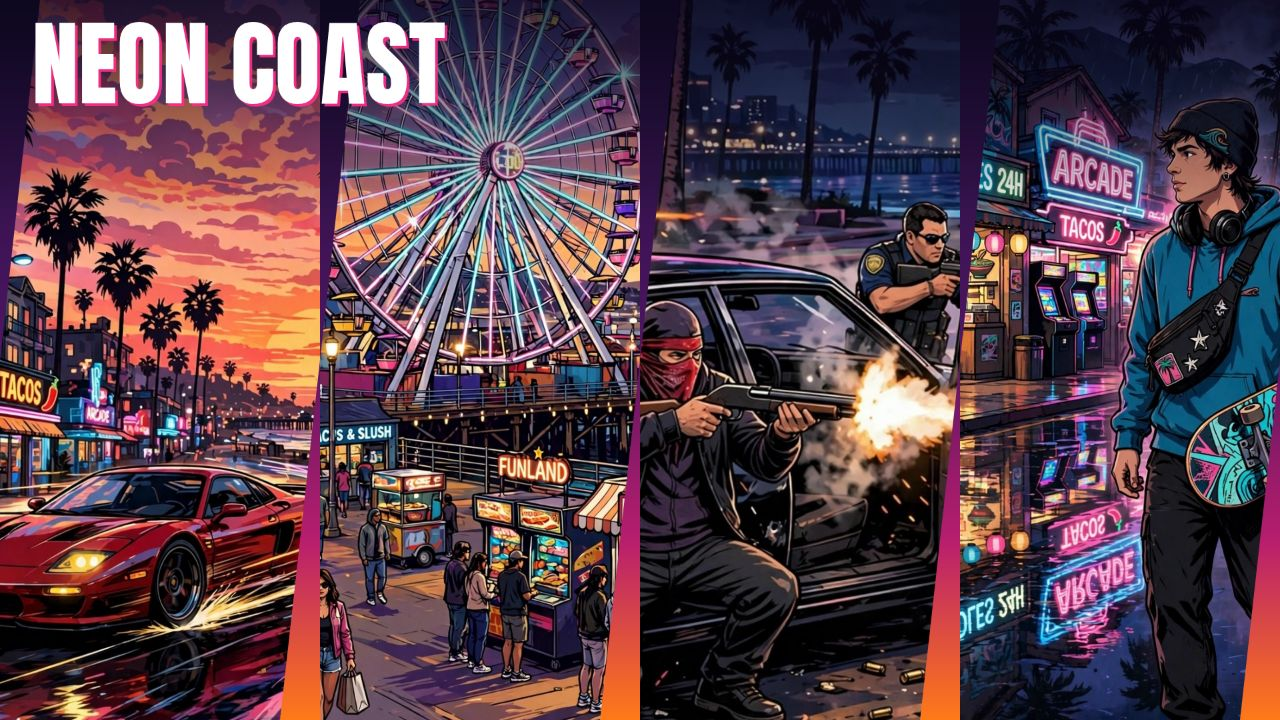
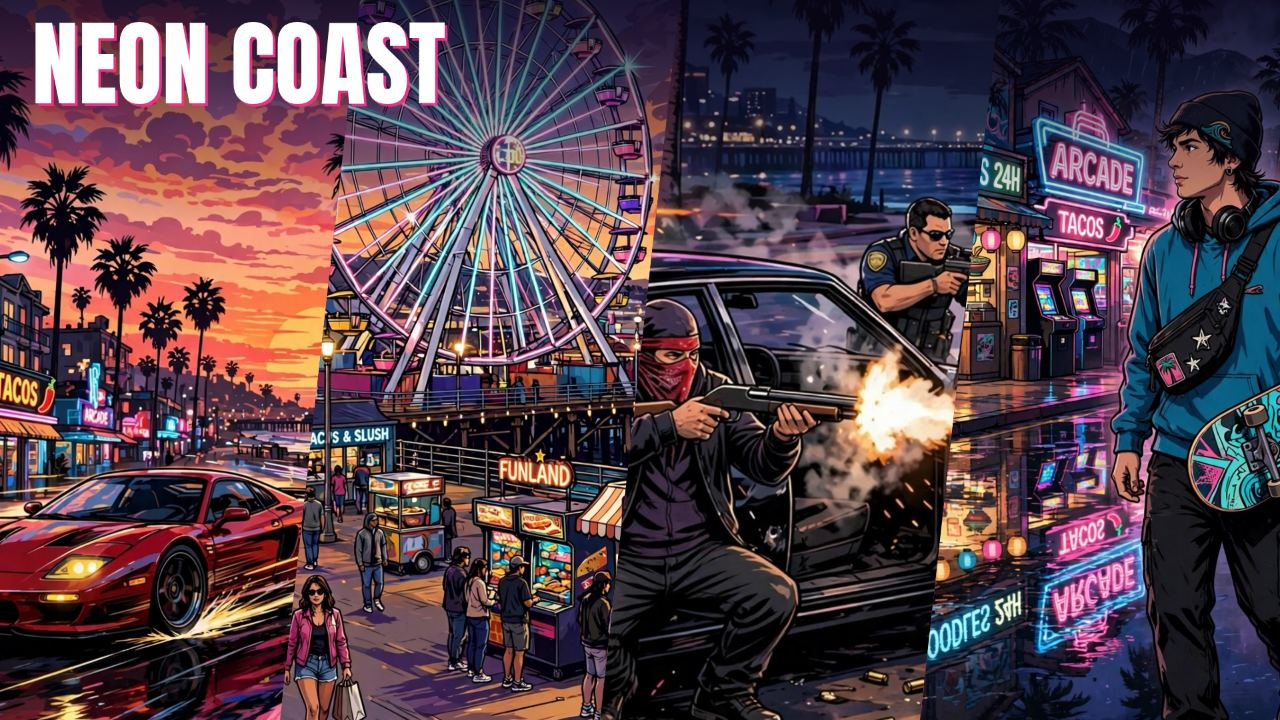
Fix diagonal cover: slanted panels fill the full canvas, no background leak
drawPanel drew each panel image as an axis-aligned strip, but a
slanted panel is a parallelogram 2*slant wider than the strip, so
the top-right and bottom-left corner triangles showed the page
gradient (orange-pink band at the bottom of strips 2-4). Draw the
image over the full parallelogram bounding box (crop recomputed
against the expanded size, plus a small tilt margin) and let the
parallelogram clip shape it. Extend the outer strips' outer edges
to the canvas edges so the top-left and bottom-right corner
triangles are covered too. Other layouts, title, samples and fonts
are untouched. Screenshot 03 re-captured in a real browser
(1280x720, 235302 bytes).

diff --git a/app/app.js b/app/app.js
@@ -141,10 +141,27 @@ function clipRect(c, rect) {
   c.beginPath();
   if (rect.slant) {
     var s = rect.slant;
-    c.moveTo(rect.x + s, rect.y);
-    c.lineTo(rect.x + rect.w + s, rect.y);
-    c.lineTo(rect.x + rect.w - s, rect.y + rect.h);
-    c.lineTo(rect.x - s, rect.y + rect.h);
+    var w = c.canvas.width;
+    var tlX = rect.x + s;
+    var trX = rect.x + rect.w + s;
+    var brX = rect.x + rect.w - s;
+    var blX = rect.x - s;
+    // The outer strips run off the canvas at one corner each: strip 1
+    // runs off the left edge at the bottom, so its top-left corner
+    // triangle would stay uncovered; strip 4 runs off the right edge
+    // at the top, so its bottom-right corner triangle would stay
+    // uncovered. Extend the outer strip's outer edge to the canvas
+    // edge so the four strips tile the whole canvas with no corner
+    // of background showing. Inner strips are unchanged.
+    if (blX < 0) tlX = 0;
+    if (trX > w) {
+      trX = w;
+      brX = w;
+    }
+    c.moveTo(tlX, rect.y);
+    c.lineTo(trX, rect.y);
+    c.lineTo(brX, rect.y + rect.h);
+    c.lineTo(blX, rect.y + rect.h);
     c.closePath();
   } else {
     c.rect(rect.x, rect.y, rect.w, rect.h);
@@ -155,16 +172,41 @@ function clipRect(c, rect) {
 function drawPanel(c, panel, rect) {
   c.save();
   clipRect(c, rect);
+  var cx = rect.x + rect.w / 2;
+  var cy = rect.y + rect.h / 2;
+  var drawW = rect.w;
+  var drawH = rect.h;
+  var effRect = rect;
+  if (rect.slant) {
+    // A slanted panel is a parallelogram, not an axis-aligned rectangle:
+    // its bounding box is 2 * slant wider than the strip, so an image
+    // drawn at strip width leaves uncovered triangles at the top-right
+    // and bottom-left corners, where the page background shows through.
+    // Draw the image over the full bounding box (plus a small margin,
+    // so a tilted panel still covers the top and bottom edges) and let
+    // the parallelogram clip shape it. The crop is recomputed against
+    // the expanded size, so the image is not stretched.
+    drawW = rect.w + 2 * rect.slant + 16;
+    drawH = rect.h + 32;
+    effRect = {
+      panel: rect.panel,
+      x: rect.x,
+      y: rect.y,
+      w: drawW,
+      h: drawH,
+      fy: rect.fy,
+      fx: rect.fx,
+      zoom: rect.zoom,
+    };
+  }
   if (panel.loaded && panel.img) {
-    var win = cropWindow(panel, rect, panel.img);
-    var cx = rect.x + rect.w / 2;
-    var cy = rect.y + rect.h / 2;
+    var win = cropWindow(panel, effRect, panel.img);
     c.translate(cx, cy);
     if (panel.tilt !== 0) c.rotate((panel.tilt * Math.PI) / 180);
-    c.drawImage(panel.img, win.sx, win.sy, win.dw, win.dh, -rect.w / 2, -rect.h / 2, rect.w, rect.h);
+    c.drawImage(panel.img, win.sx, win.sy, win.dw, win.dh, -drawW / 2, -drawH / 2, drawW, drawH);
   } else {
     c.fillStyle = FALLBACK_FILL;
-    c.fillRect(rect.x, rect.y, rect.w, rect.h);
+    c.fillRect(cx - drawW / 2, cy - drawH / 2, drawW, drawH);
   }
   c.restore();
 }
